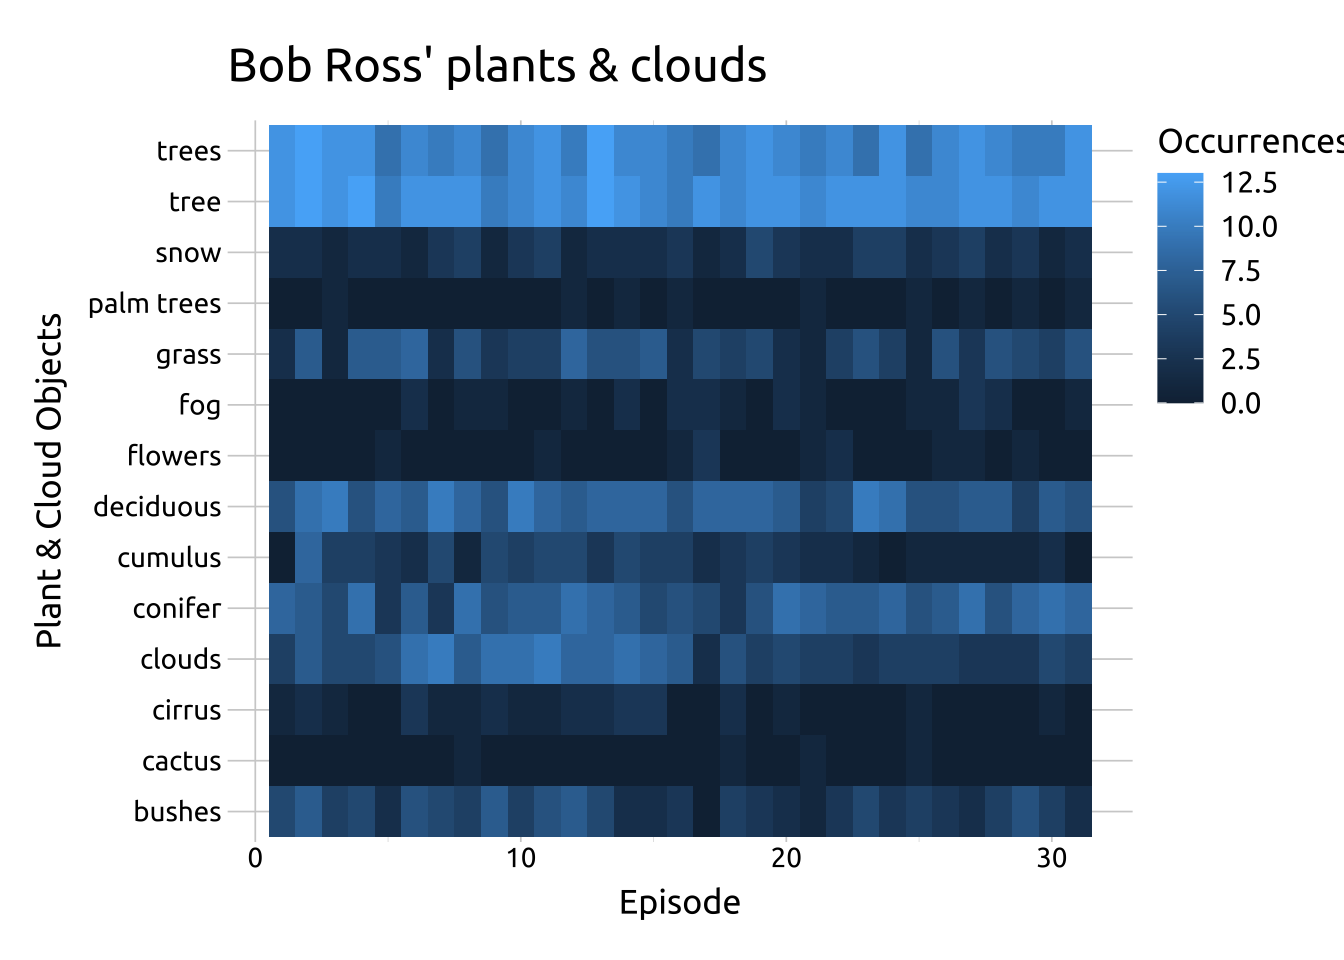
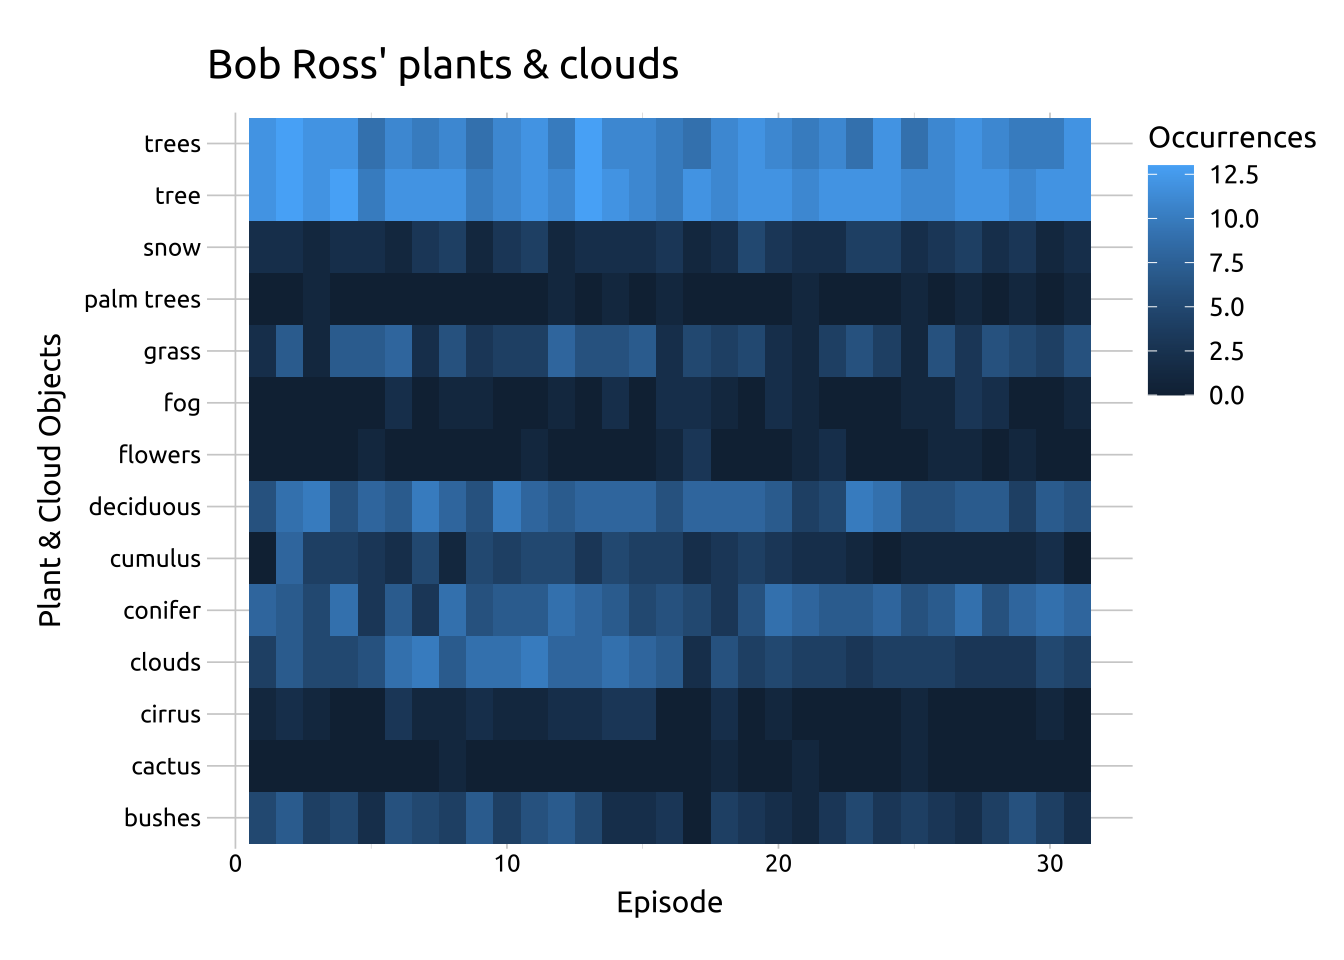
heatmaps

diff --git a/docs/amt/heatmaps.html b/docs/amt/heatmaps.html
@@ -934,7 +934,7 @@ window.document.addEventListener("DOMContentLoaded", function (event) {
 <span id="cb5-42"><a href="#cb5-42" aria-hidden="true" tabindex="-1"></a><span class="fu">source</span>(<span class="st">"../R/theme_ggp2g.R"</span>)</span>
 <span id="cb5-43"><a href="#cb5-43" aria-hidden="true" tabindex="-1"></a><span class="co"># set theme</span></span>
 <span id="cb5-44"><a href="#cb5-44" aria-hidden="true" tabindex="-1"></a>ggplot2<span class="sc">::</span><span class="fu">theme_set</span>(<span class="fu">theme_ggp2g</span>(</span>
-<span id="cb5-45"><a href="#cb5-45" aria-hidden="true" tabindex="-1"></a>    <span class="at">base_size =</span> <span class="dv">16</span>))</span>
+<span id="cb5-45"><a href="#cb5-45" aria-hidden="true" tabindex="-1"></a>    <span class="at">base_size =</span> <span class="dv">14</span>))</span>
 <span id="cb5-46"><a href="#cb5-46" aria-hidden="true" tabindex="-1"></a><span class="co"># install data packages ----</span></span>
 <span id="cb5-47"><a href="#cb5-47" aria-hidden="true" tabindex="-1"></a><span class="fu">install.packages</span>(<span class="st">"palmerpenguins"</span>)</span>
 <span id="cb5-48"><a href="#cb5-48" aria-hidden="true" tabindex="-1"></a><span class="fu">library</span>(palmerpenguins)</span>
